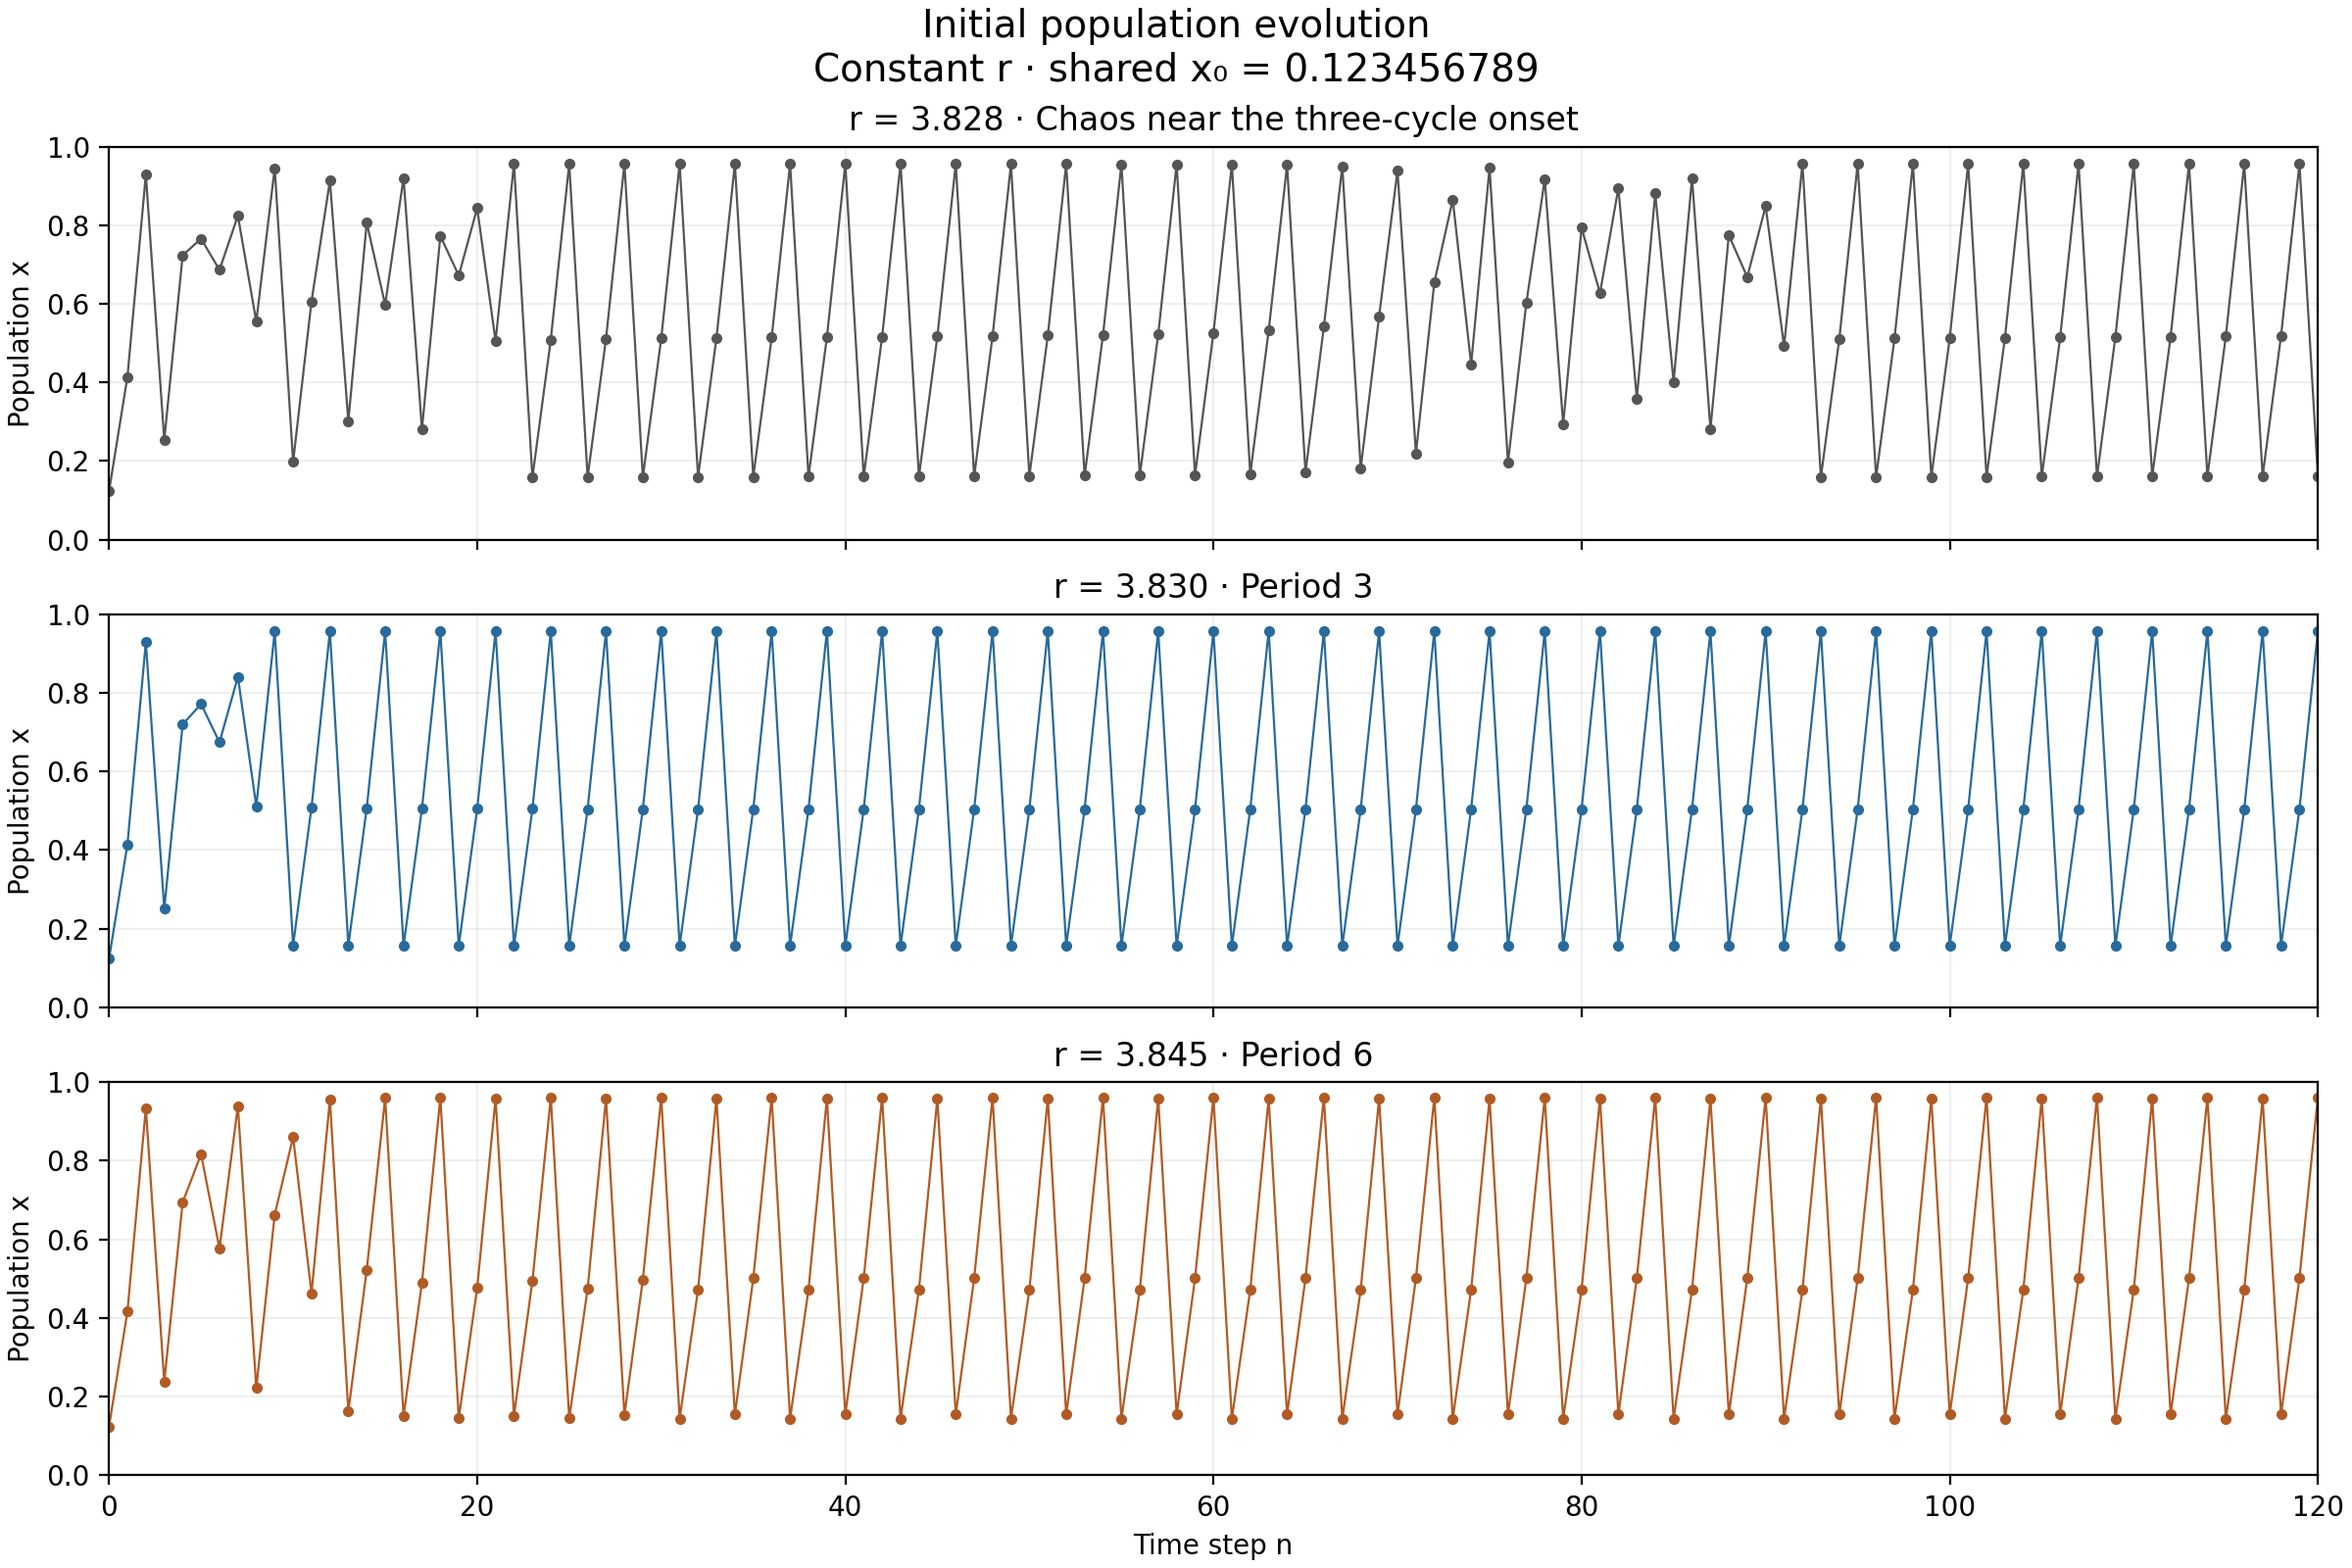
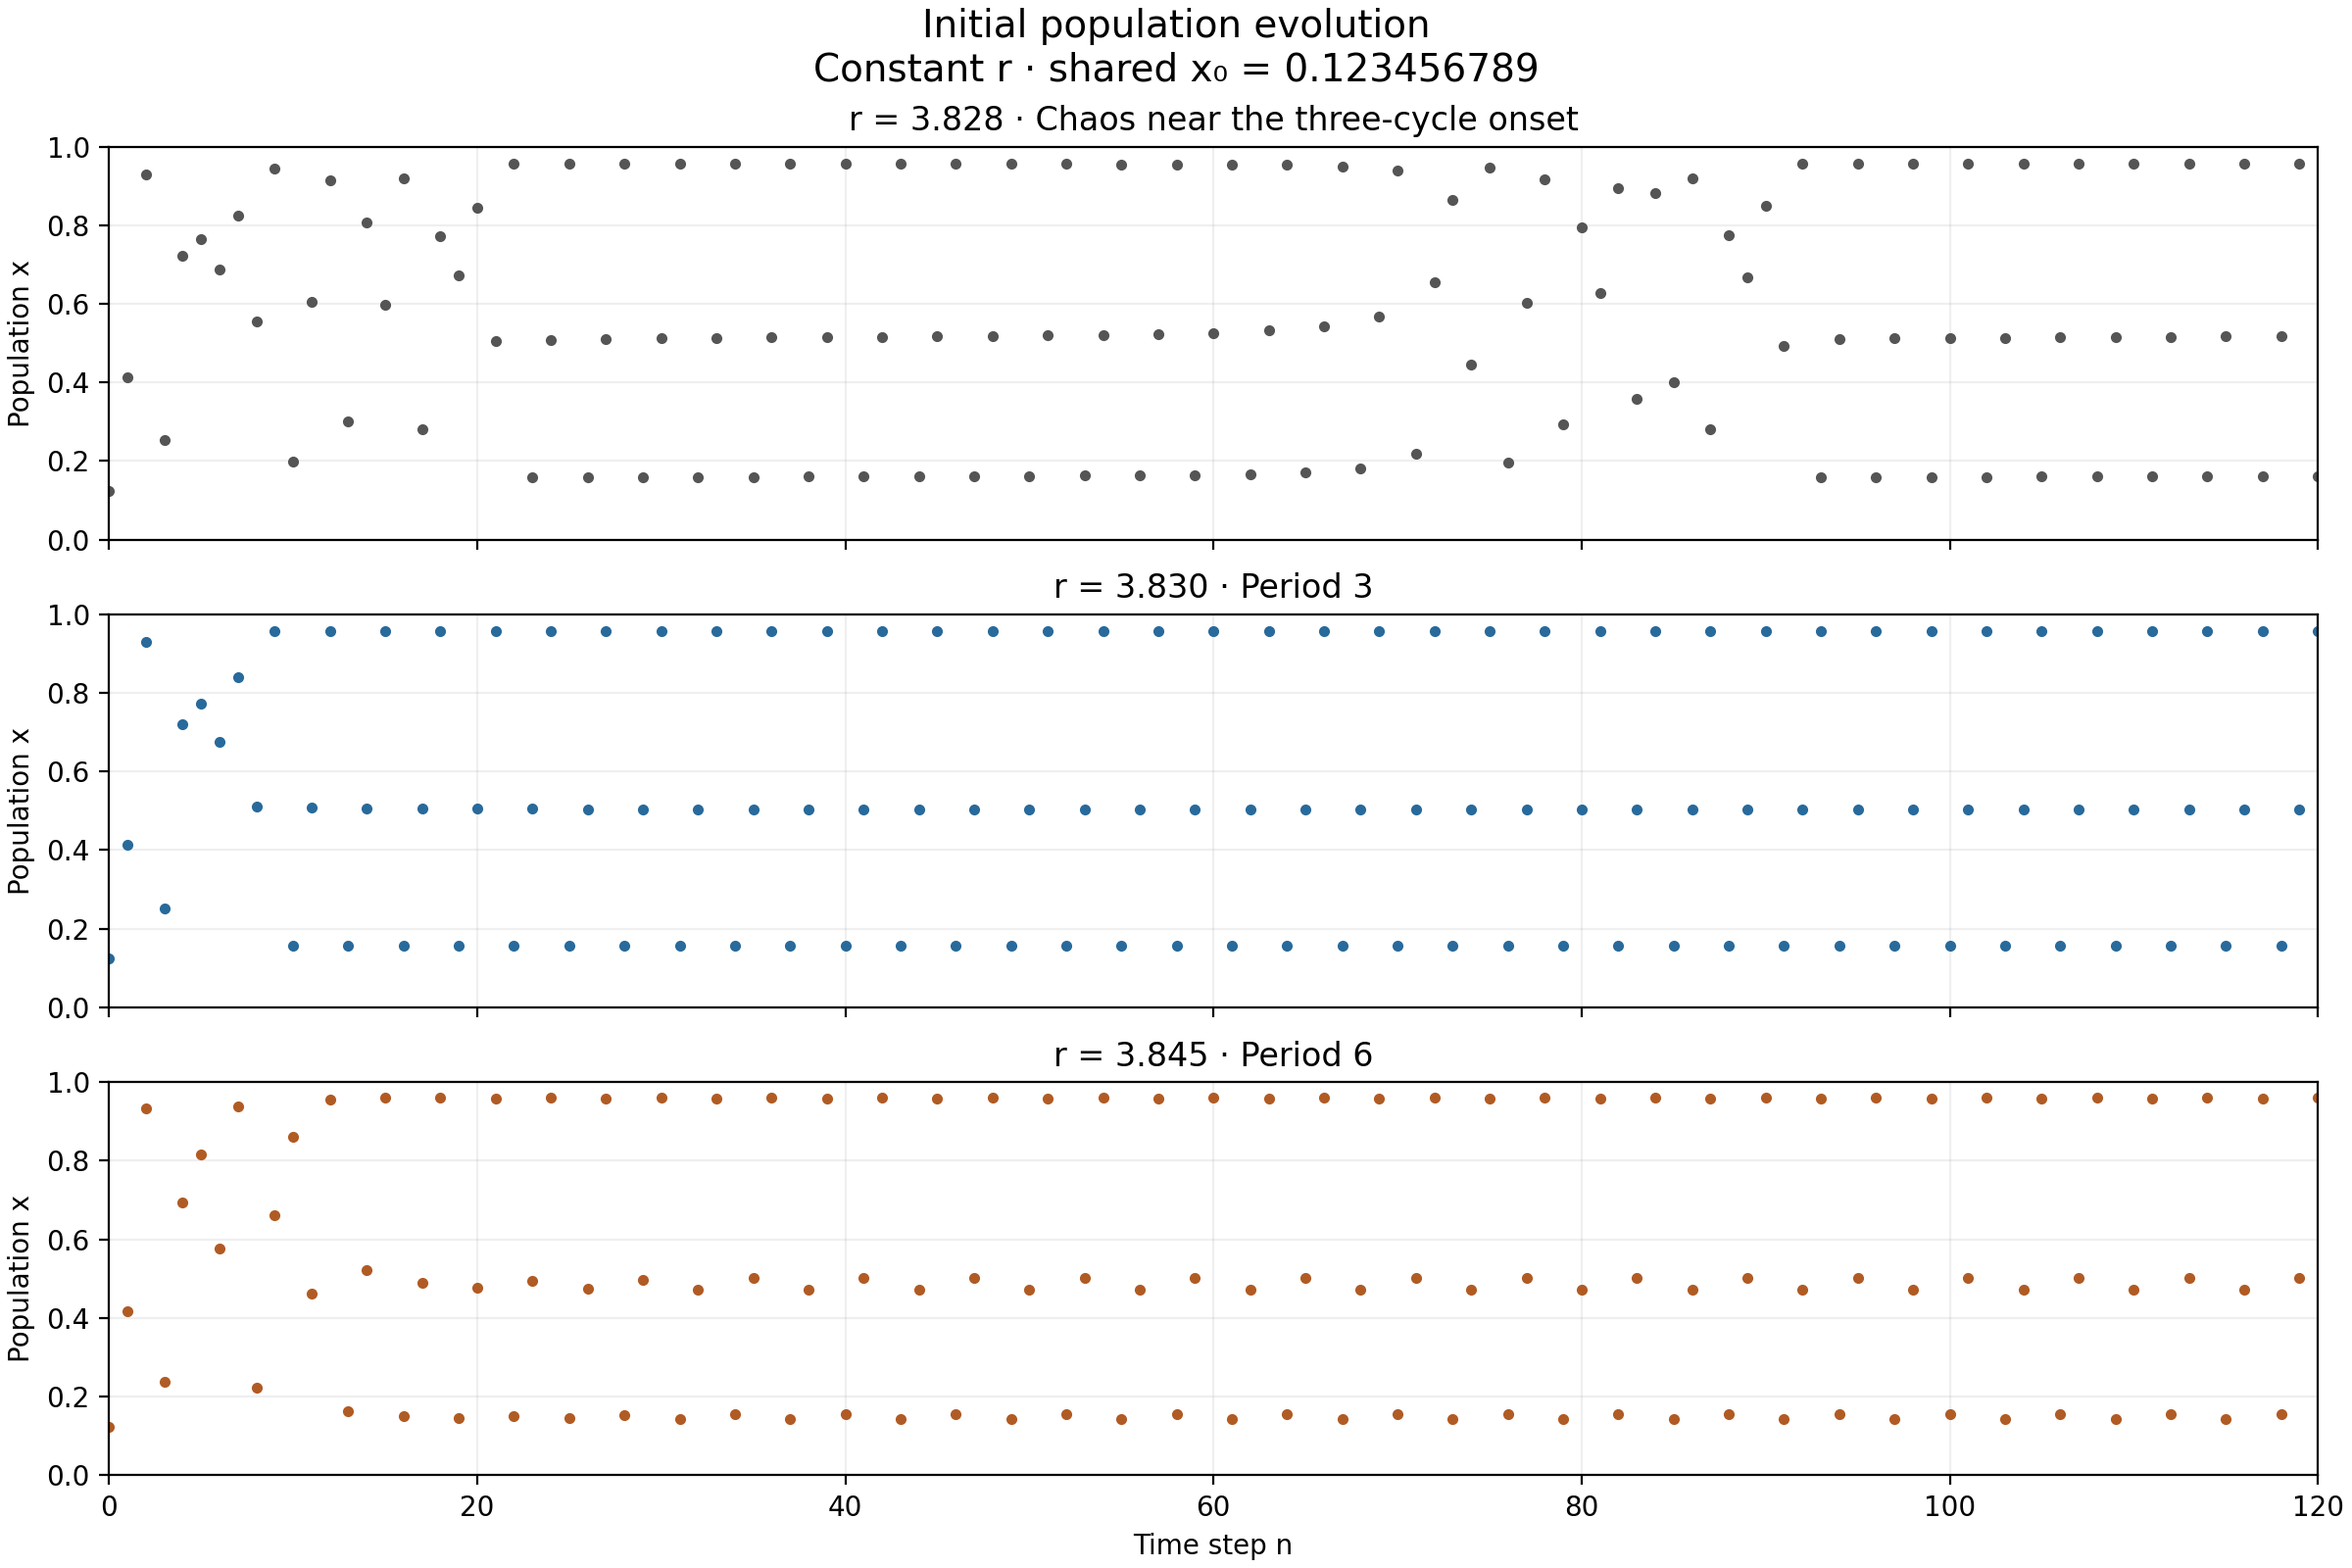
fix: show discrete population samples without connecting lines

diff --git a/scripts/population_time.py b/scripts/population_time.py
@@ -25,7 +25,7 @@ DEFAULT_OUTPUT_DIRECTORY = Path(__file__).resolve().parents[1] / "docs/graphs"
 
 def plot_time_views(output_directory=DEFAULT_OUTPUT_DIRECTORY):
     rates = np.array([r for r, _, _ in EXPERIMENTS])
-    # One continuous trajectory per rate, including the shared initial population.
+    # One discrete trajectory per rate, including the shared initial population.
     populations = np.vstack((
         np.full((1, rates.size), INITIAL_POPULATION),
         sample_attractor(rates, burn_in=0, iterations=SETTLING_STEPS + LONG_RUN_STEPS),
@@ -41,7 +41,7 @@ def plot_time_views(output_directory=DEFAULT_OUTPUT_DIRECTORY):
         fig, axes = plt.subplots(3, 1, figsize=(12, 8), sharex=True, layout="constrained")
         times = np.arange(start, start + steps + 1)
         for column, (ax, (r, behavior, color)) in enumerate(zip(axes, EXPERIMENTS)):
-            ax.plot(times, populations[times, column], "o-", color=color, ms=3, lw=0.8)
+            ax.plot(times, populations[times, column], marker="o", linestyle="none", color=color, ms=3)
             ax.set(title=f"r = {r:.3f} · {behavior}", ylabel="Population x", ylim=(0, 1))
             ax.set_xlim(times[0], times[-1])
             ax.grid(alpha=0.2)

diff --git a/docs/README.md b/docs/README.md
@@ -31,7 +31,8 @@ and retain the next 512 populations at each rate.
 
 ## Population over time
 
-Three independent runs share `x₀ = 0.123456789`, each with a constant growth rate:
+Each dot shows the population at an integer time step. Three independent runs
+share `x₀ = 0.123456789`, each with a constant growth rate:
 
 | r | Long-run behavior |
 | --- | --- |
